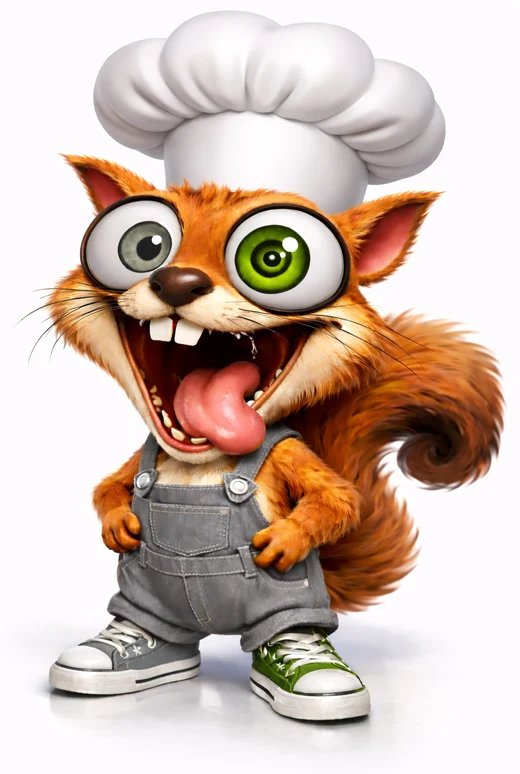
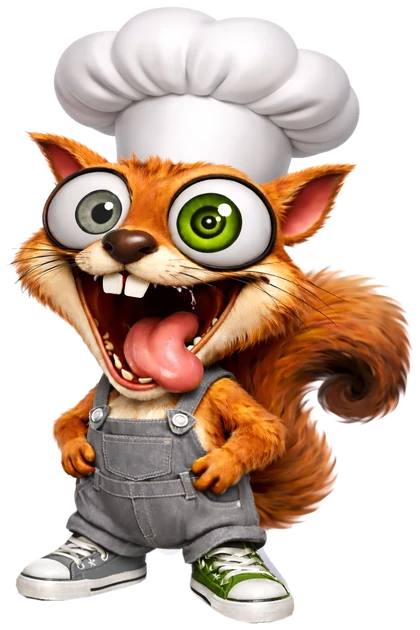
Make the chef squirrel a 3D animated mascot
- Cut the squirrel out of its white background (transparent WebP, ~66 KB)
- Replace the framed sticker with a free-standing character: floor
  shadow, floating/swaying 3D motion, tilts toward the finger or mouse,
  and spins with a playful message when tapped
- Used on the setup screens, Home greeting and empty states
- Respects reduced-motion settings; cache bumped to v5

Claude-Session: https://claude.ai/code/session_014kKEAj16cEE9QhtTurTECi

diff --git a/app.js b/app.js
@@ -124,6 +124,12 @@
       </div>`;
   }
 
+  // ---------- 3D chef squirrel ----------
+  // Layers: shadow on the floor, then tilt (follows finger/mouse) > float (bobbing/swaying) > spin (tap) > image.
+  function mascot(cls) {
+    return `<button type="button" class="mascot3d ${cls || ""}" data-act="spin" aria-label="Chef squirrel. Tap to make him spin"><span class="m-shadow"></span><span class="m-tilt"><span class="m-float"><span class="m-spin"><img src="icons/wut-squirrel.webp" alt="" width="420" height="630" draggable="false"></span></span></span></button>`;
+  }
+
   const STEP_INFO = [
     null,
     { e: "Hello", t: "Let's meet you!", s: "A few quick questions so your meals fit you.", b: body1 },
@@ -135,7 +141,7 @@
     const n = state.step, i = STEP_INFO[n];
     return `<div class="page">
       <div class="steps" aria-label="Step ${n} of 4">${[1, 2, 3, 4].map((k) => `<i class="${k <= n ? "on" : ""}"></i>`).join("")}</div>
-      <div class="hero hasmascot"><img class="mascot" src="icons/wut-squirrel.webp" alt="W.U.T.'s chef squirrel" width="96" height="143"><div class="eyebrow">${i.e}</div><h1>${i.t}</h1><p>${i.s}</p></div>
+      <div class="hero hasmascot">${mascot()}<div class="eyebrow">${i.e}</div><h1>${i.t}</h1><p>${i.s}</p></div>
       <div class="card">${i.b()}</div>
       <button class="btn" data-act="next">${n === 4 ? "✨ Create my meal prep" : "Continue →"}</button>
       <div class="row2">${n > 1 ? `<button class="btn ghost" data-act="back">← Back</button>` : "<span></span>"}<button class="btn ghost" data-act="skip">Skip</button></div>
@@ -186,7 +192,7 @@
     const bar = (label, v, t) => `<div class="bar"><div class="barhead"><span>${label}</span><span>${Math.round(v)} / ${t} g</span></div><div class="track"><i style="width:${Math.min(100, (v / t) * 100)}%"></i></div></div>`;
     const done = isInstalled();
     return `<div class="page">
-      <div class="hero hasmascot"><img class="mascot" src="icons/wut-squirrel.webp" alt="W.U.T.'s chef squirrel" width="96" height="143"><div class="eyebrow">Meal of the day · ${esc(dateLabel(today()))}</div><h1>Good ${greet}, ${esc(state.profile.name || "friend")}!</h1>
+      <div class="hero hasmascot">${mascot()}<div class="eyebrow">Meal of the day · ${esc(dateLabel(today()))}</div><h1>Good ${greet}, ${esc(state.profile.name || "friend")}!</h1>
       <p>Day ${pos.idx + 1} of your ${plan.days}-day meal prep.</p></div>
       ${pos.over ? `<div class="note">Your ${plan.days}-day plan has finished, so we're repeating it. Tap <b>New plan</b> below for fresh meals.</div>` : ""}
       ${missingNotes()}
@@ -256,7 +262,7 @@
     return `<div class="page"><div class="hero"><div class="eyebrow">Kitchen</div><h1>My Recipes</h1><p>Your favorites and the recipes you've added.</p></div>
       <button class="btn" data-act="go" data-arg="add">＋ Add my recipe</button>
       <div class="chips pad">${chip(`All saved`, f === "all", "filter", "all")}${chip(`Favorites (${favs.length})`, f === "fav", "filter", "fav")}${chip(`Mine (${mine.length})`, f === "mine", "filter", "mine")}</div>
-      ${cards || `<div class="empty card"><img class="emptyimg" src="icons/wut-squirrel.webp" alt="" width="110" height="164"><p>${empty}</p></div>`}</div>`;
+      ${cards || `<div class="empty card">${mascot("inline")}<p>${empty}</p></div>`}</div>`;
   }
 
   function addScreen() {
@@ -313,7 +319,7 @@
         ${S.pantry.length ? `<div class="card"><h3>🧂 Check your pantry</h3><p class="muted">Not counted above. You'll likely need small amounts of: ${esc(S.pantry.join(", "))}, plus salt and pepper.</p></div>` : ""}
         <p class="fine">Amounts are raw or dry weights as you buy them. Cooked rice, quinoa and lentils weigh more.</p>
         <button class="btn" data-act="shopcopy">📋 Copy list</button><button class="btn ghost" data-act="shopclear">Clear checkmarks</button>`
-        : `<div class="empty card"><img class="emptyimg" src="icons/wut-squirrel.webp" alt="" width="110" height="164"><p>No meals to shop for yet. Make a plan first.</p></div>`}</div>`;
+        : `<div class="empty card">${mascot("inline")}<p>No meals to shop for yet. Make a plan first.</p></div>`}</div>`;
   }
 
   function profile() {
@@ -442,6 +448,13 @@
       state.favorites = state.favorites.filter((x) => x !== id);
       go("recipes");
     },
+    spin: (a, el) => {
+      const sp = el.querySelector(".m-spin");
+      if (!sp) return;
+      sp.classList.remove("go"); void sp.offsetWidth; sp.classList.add("go");
+      const lines = ["Let's cook! 👨🍳", "Wheee! 🌀", "Nuts about meal prep! 🌰", "Eat your veggies! 🥦"];
+      toast(lines[Math.floor(Math.random() * lines.length)]);
+    },
     install: () => installApp(),
     closeModal: () => closeModal()
   };
@@ -469,6 +482,28 @@
     if (e.key === "Enter" && e.target.id === "allergyInput") { e.preventDefault(); addAllergies(); }
     if (e.key === "Escape") closeModal();
   });
+
+
+  // ---------- squirrel tilts toward your finger / mouse ----------
+  const reduceMotion = window.matchMedia && window.matchMedia("(prefers-reduced-motion: reduce)").matches;
+  let tiltRaf = 0, tiltX = 0, tiltY = 0;
+  function applyTilt() {
+    tiltRaf = 0;
+    document.querySelectorAll(".mascot3d").forEach((m) => {
+      const r = m.getBoundingClientRect(), cx = r.left + r.width / 2, cy = r.top + r.height / 2;
+      const dx = Math.max(-1, Math.min(1, (tiltX - cx) / 260)), dy = Math.max(-1, Math.min(1, (tiltY - cy) / 260));
+      m.style.setProperty("--ry", (dx * 24).toFixed(1) + "deg");
+      m.style.setProperty("--rx", (-dy * 14).toFixed(1) + "deg");
+    });
+  }
+  function resetTilt() {
+    document.querySelectorAll(".mascot3d").forEach((m) => { m.style.setProperty("--ry", "0deg"); m.style.setProperty("--rx", "0deg"); });
+  }
+  if (!reduceMotion) {
+    document.addEventListener("pointermove", (e) => { tiltX = e.clientX; tiltY = e.clientY; if (!tiltRaf) tiltRaf = requestAnimationFrame(applyTilt); }, { passive: true });
+    document.addEventListener("pointerup", (e) => { if (e.pointerType !== "mouse") setTimeout(resetTilt, 600); });
+    document.addEventListener("pointerleave", resetTilt);
+  }
 
   // ---------- add to home screen ----------
   let deferredPrompt = null;

diff --git a/styles.css b/styles.css
@@ -29,9 +29,6 @@ h1, h2, h3 { font-family: "Fredoka", "DM Sans", sans-serif; margin: 0; }
 .hero h1.small { font-size: 26px; }
 .hero p { margin: 4px 0 0; color: var(--muted); }
 .eyebrow { text-transform: uppercase; letter-spacing: 1.8px; color: var(--gold); font-size: 11px; font-weight: 700; }
-.mascot { position: absolute; right: 0; top: 14px; width: 96px; height: auto; background: #fff; border: 3px solid var(--gold); border-radius: 26px; padding: 4px; transform: rotate(4deg); box-shadow: 0 5px 0 var(--gold-d), 0 12px 28px #0006; animation: bob 2.8s ease-in-out infinite; }
-.hero.hasmascot { padding-right: 112px; min-height: 190px; }
-.emptyimg { display: block; margin: 0 auto 10px; width: 110px; height: auto; background: #fff; border: 3px solid var(--gold); border-radius: 26px; padding: 4px; transform: rotate(-3deg); box-shadow: 0 5px 0 var(--gold-d); }
 .bigemoji { font-size: 56px; text-align: center; animation: bob 2.8s ease-in-out infinite; }
 .hero .bigemoji { text-align: left; }
 
@@ -157,10 +154,26 @@ h1, h2, h3 { font-family: "Fredoka", "DM Sans", sans-serif; margin: 0; }
 .sheet { width: min(540px, 100%); background: #251f23; border: 2px solid var(--gold-d); border-radius: 28px; padding: 22px; margin-bottom: env(safe-area-inset-bottom); animation: rise .25s ease-out; }
 .sheet ol { padding-left: 22px; line-height: 1.8; }
 
+
+/* ---------- 3D chef squirrel ---------- */
+.mascot3d { --rx: 0deg; --ry: 0deg; position: relative; display: block; width: 118px; height: 178px; padding: 0; border: 0; background: none; perspective: 700px; touch-action: manipulation; user-select: none; -webkit-user-select: none; flex: none; }
+.hero .mascot3d { position: absolute; right: -4px; top: 8px; }
+.mascot3d.inline { margin: 0 auto 8px; width: 108px; height: 162px; }
+.mascot3d > span { display: block; }
+.m-shadow { position: absolute; left: 50%; bottom: -2px; width: 78%; height: 14px; margin-left: -39%; border-radius: 50%; background: radial-gradient(ellipse at center, #000c 0, #0000 70%); animation: shadowpulse 3.2s ease-in-out infinite; }
+.m-tilt { position: absolute; inset: 0; transform-style: preserve-3d; transform: rotateX(var(--rx)) rotateY(var(--ry)); transition: transform .25s ease-out; }
+.m-float { position: absolute; inset: 0; transform-style: preserve-3d; animation: squirrelfloat 3.2s ease-in-out infinite; }
+.m-spin { position: absolute; inset: 0; transform-style: preserve-3d; }
+.m-spin.go { animation: squirrelspin .9s cubic-bezier(.3,.7,.3,1); }
+.m-spin img { display: block; width: 100%; height: 100%; object-fit: contain; pointer-events: none; filter: drop-shadow(0 10px 8px #0008) drop-shadow(0 0 1px #0009); }
+.hero.hasmascot { padding-right: 118px; min-height: 196px; }
+@keyframes squirrelfloat { 0%, 100% { transform: translateY(0) rotateY(-9deg) rotateZ(-1.5deg); } 50% { transform: translateY(-9px) rotateY(9deg) rotateZ(1.5deg); } }
+@keyframes shadowpulse { 0%, 100% { transform: scale(1); opacity: .9; } 50% { transform: scale(.82); opacity: .55; } }
+@keyframes squirrelspin { 0% { transform: translateY(0) rotateY(0) scale(1); } 35% { transform: translateY(-22px) rotateY(180deg) scale(1.1); } 70% { transform: translateY(-6px) rotateY(330deg) scale(1.04); } 100% { transform: translateY(0) rotateY(360deg) scale(1); } }
 @keyframes bob { 0%, 100% { transform: translateY(0); } 50% { transform: translateY(-6px); } }
 @keyframes wiggle { 0%, 100% { transform: rotate(8deg); } 50% { transform: rotate(-4deg) scale(1.05); } }
 @keyframes pop { from { transform: scale(.7); opacity: 0; } to { transform: scale(1); opacity: 1; } }
 @keyframes rise { from { transform: translateY(40px); opacity: 0; } to { transform: none; opacity: 1; } }
-@media (prefers-reduced-motion: reduce) { * { animation: none !important; transition: none !important; } }
+@media (prefers-reduced-motion: reduce) { * { animation: none !important; transition: none !important; } .m-spin.go { animation: none !important; } }
 @media (min-width: 700px) { body { padding: 20px; } .shell { border: 2px solid var(--line); border-radius: 32px; background: #171416; overflow: hidden; } }
 @media (max-width: 360px) { .grid2 { grid-template-columns: 1fr; } .hero h1 { font-size: 28px; } }

diff --git a/sw.js b/sw.js
@@ -1,5 +1,5 @@
 // Network-first for the app files (so updates show up), cache fallback for offline use.
-const CACHE = "wuts-cooking-v4";
+const CACHE = "wuts-cooking-v5";
 const FILES = ["./", "./index.html", "./styles.css", "./data.js", "./engine.js", "./app.js", "./manifest.json", "./icons/icon-192.png", "./icons/icon-512.png", "./icons/wut-squirrel.webp"];
 
 self.addEventListener("install", (e) => {
